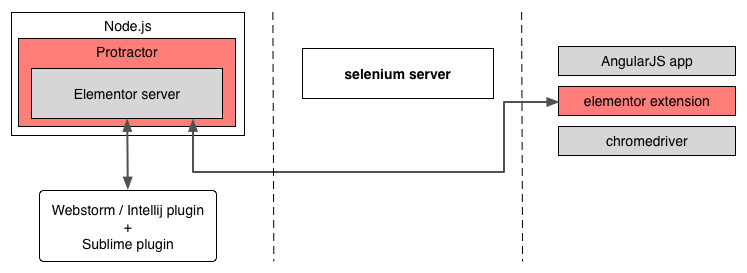
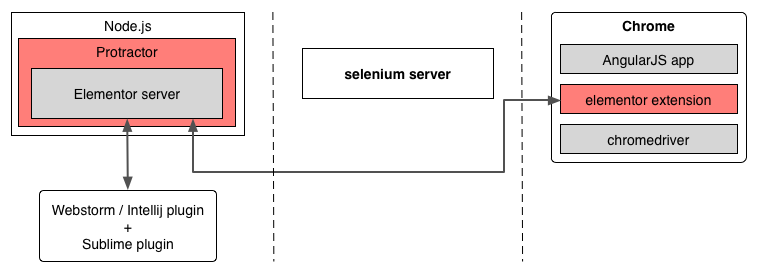
Add "how it works"

diff --git a/README.md b/README.md
@@ -1,10 +1,11 @@
 ![Protractor logo](extension/images/icon-38.png) elementor
 =========
 
-Test (Protractor)[http://protractortest.org] selectors from your browser.
-Elementor extends Protractor's elementexplorer
+Elementor lets you test [Protractor](http://protractortest.org) selectors from
+your browser and your IDE. You can enter a protractor locator or expression
+and elementor will test it against a live protractor instance.
 
-##Instructions
+## Get elementor
 
 ```shell
 $ npm install elementor
@@ -24,7 +25,16 @@ Open a second terminal and start **elementor**
 $ ./node_modules/.bin/elementor [url]
 ```
 
-!(Elementor architecture)[/doc/elementor.png]
+## How it works
+
+Elementor extends protractor's elementexplorer in two ways:
+
+* It opens a server on port 13000 that listens for commands.
+* It launches chrome with a custom extension that lets you test on the browser.
+
+![Elementor architecture](/doc/elementor.png)
+
+
 
 The extension includes two components:
 
@@ -32,13 +42,13 @@ The extension includes two components:
 * A developer tools to suggest locators for the selected element.
 
 ##Using the popup
-You can use the popup to enter Protractor selectors or execute commands that you would normally enter in the element explorer.
+You can use the popup to enter protractor selectors or execute commands that you would normally enter in the element explorer.
 
 When you enter a locator starting with by. (e.g. by.css, by.model, by.binding, etc.) then it will be executed as a count expression element.all(<your locator>).count() by the element explorer.
 
 popup screenshot
 ##Using the developer tools
-The developer tools extension tries to find protractor locators for the currently selected item. To open the extension go to Developer tools > Elements and then on the side pane (Styles, Computed, etc.) choose Protractor.
+The developer tools extension tries to find protractor locators for the currently selected item. To open the extension go to Developer tools > Elements and then on the side pane (Styles, Computed, etc.) choose protractor.
 
 open dev tools
 The DevTools extension is limited because you cannot use it in the same browser tab launched by the element explorer. To use the extension you need to open a new tab with the same page for which you want to find locator suggestions. Once the dev tools in the second tab is open then it will provide locator suggestions every time you change the selected element in the elements tab.
